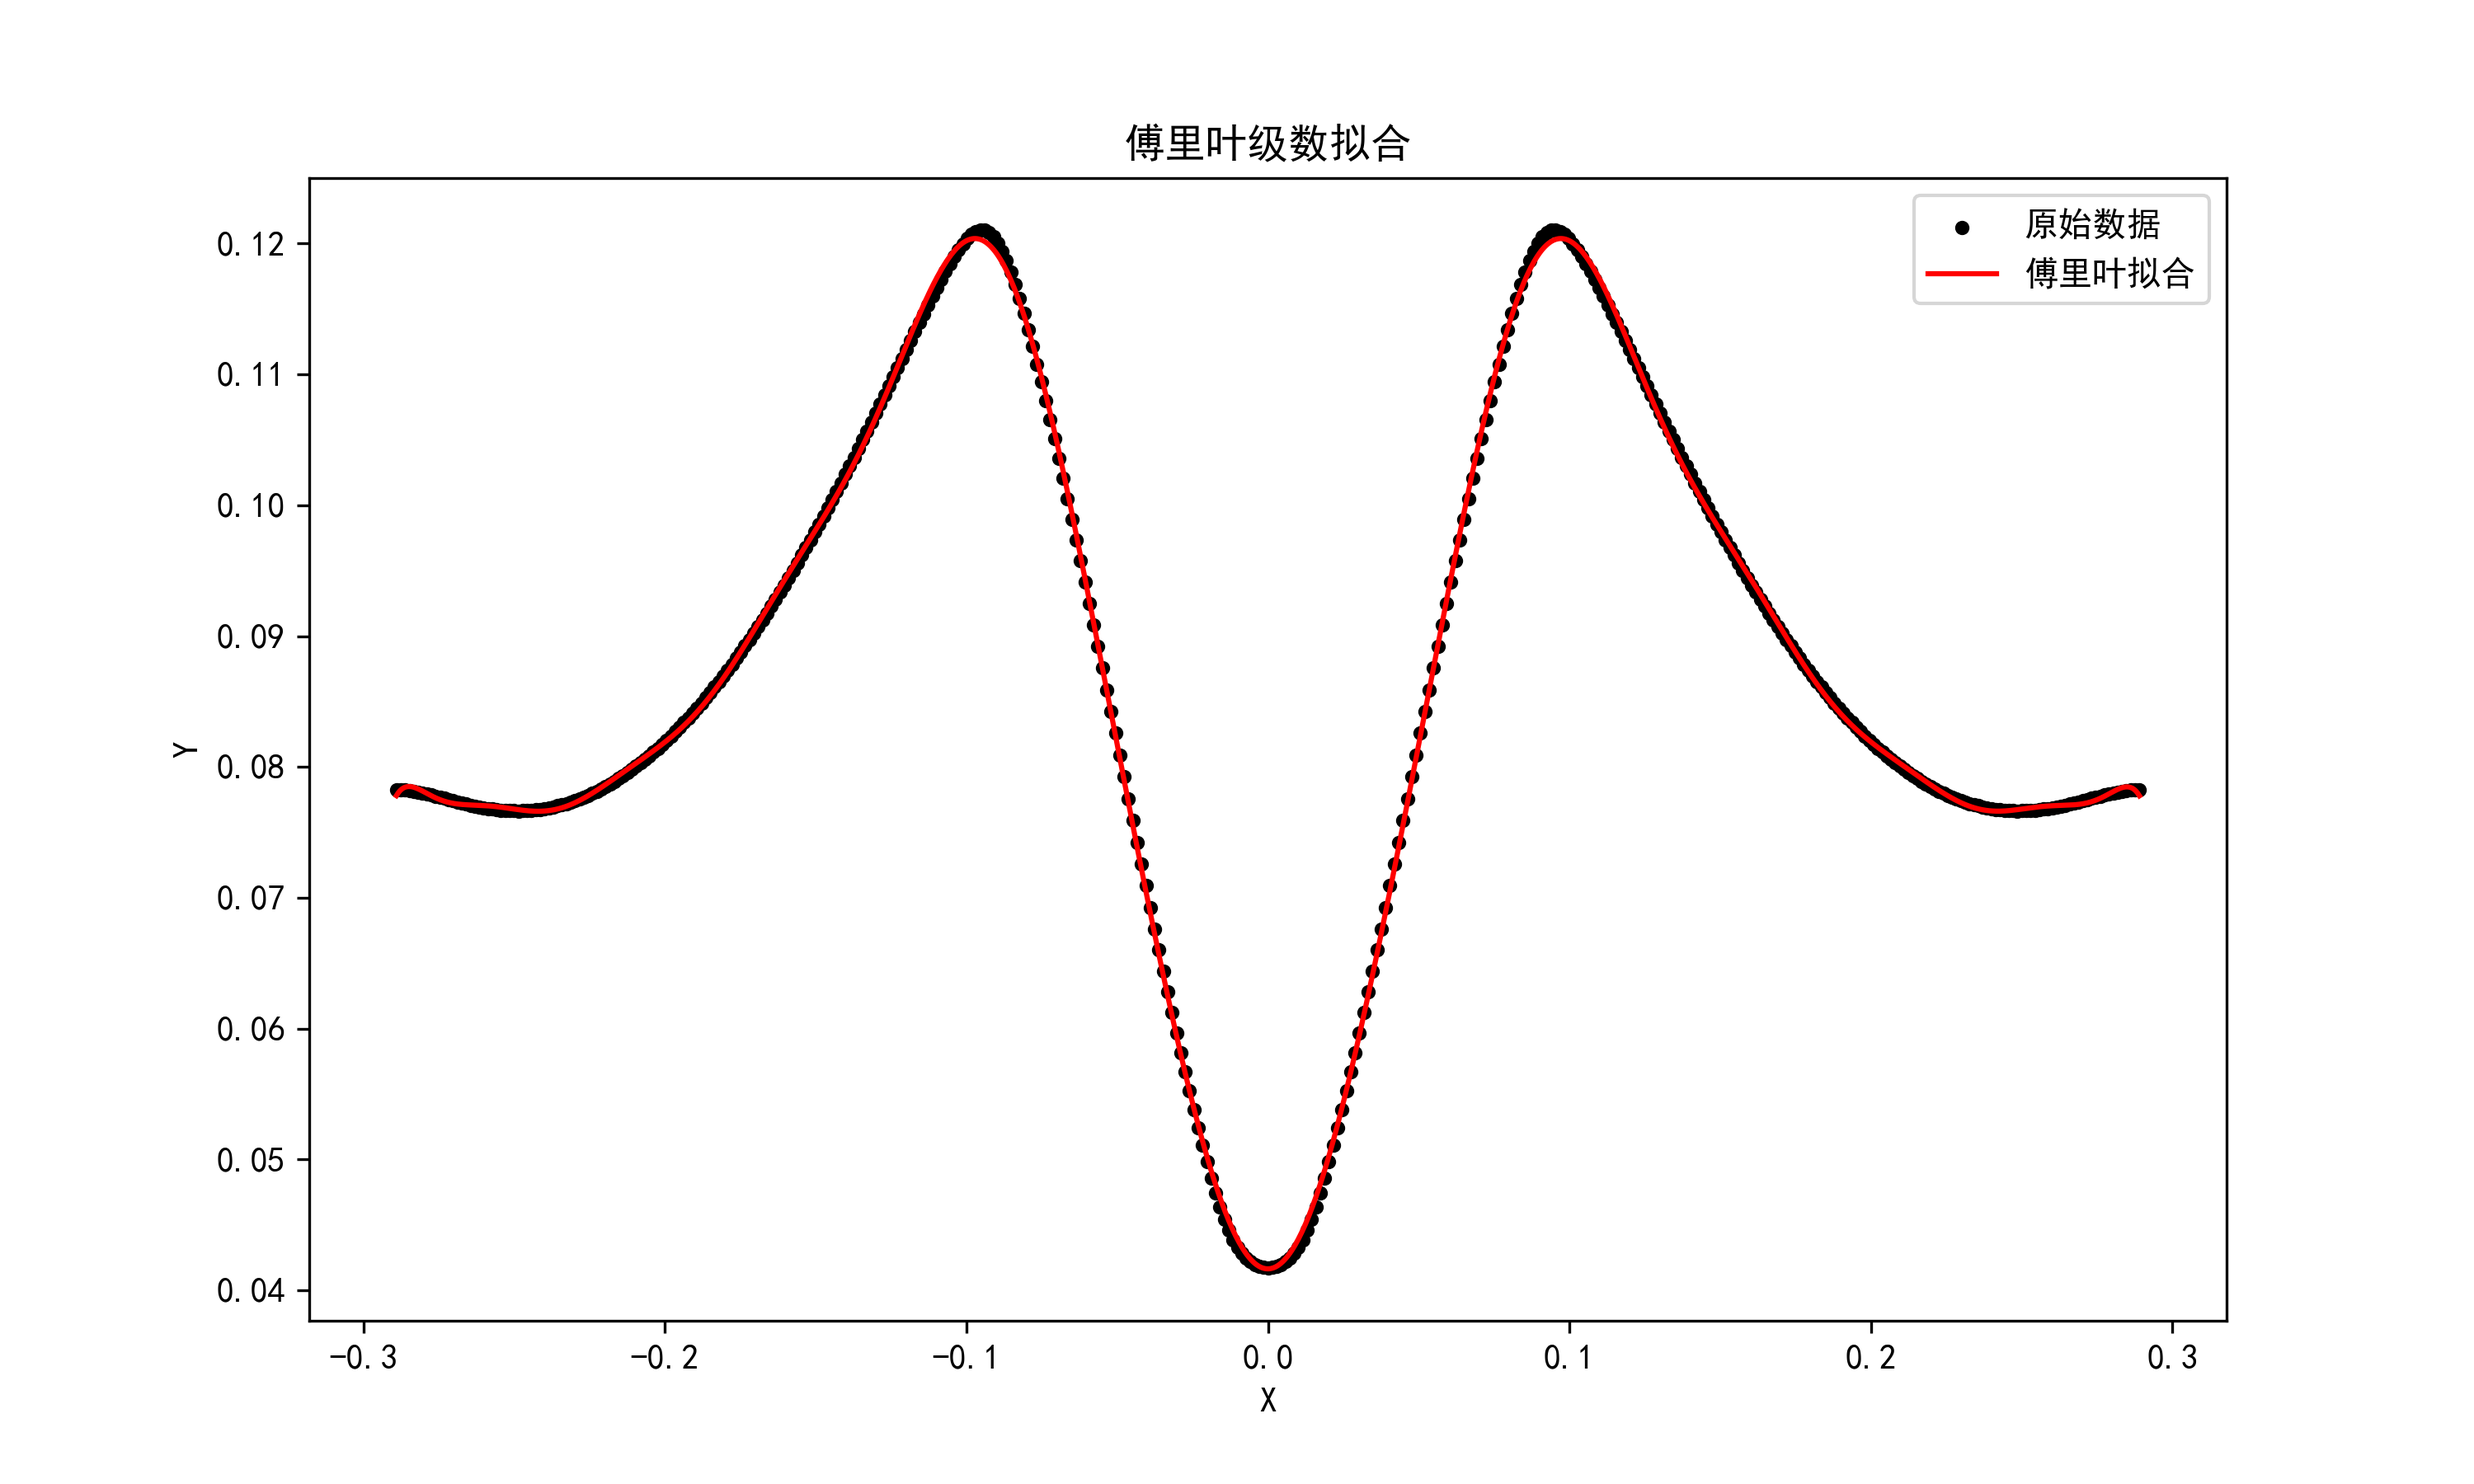
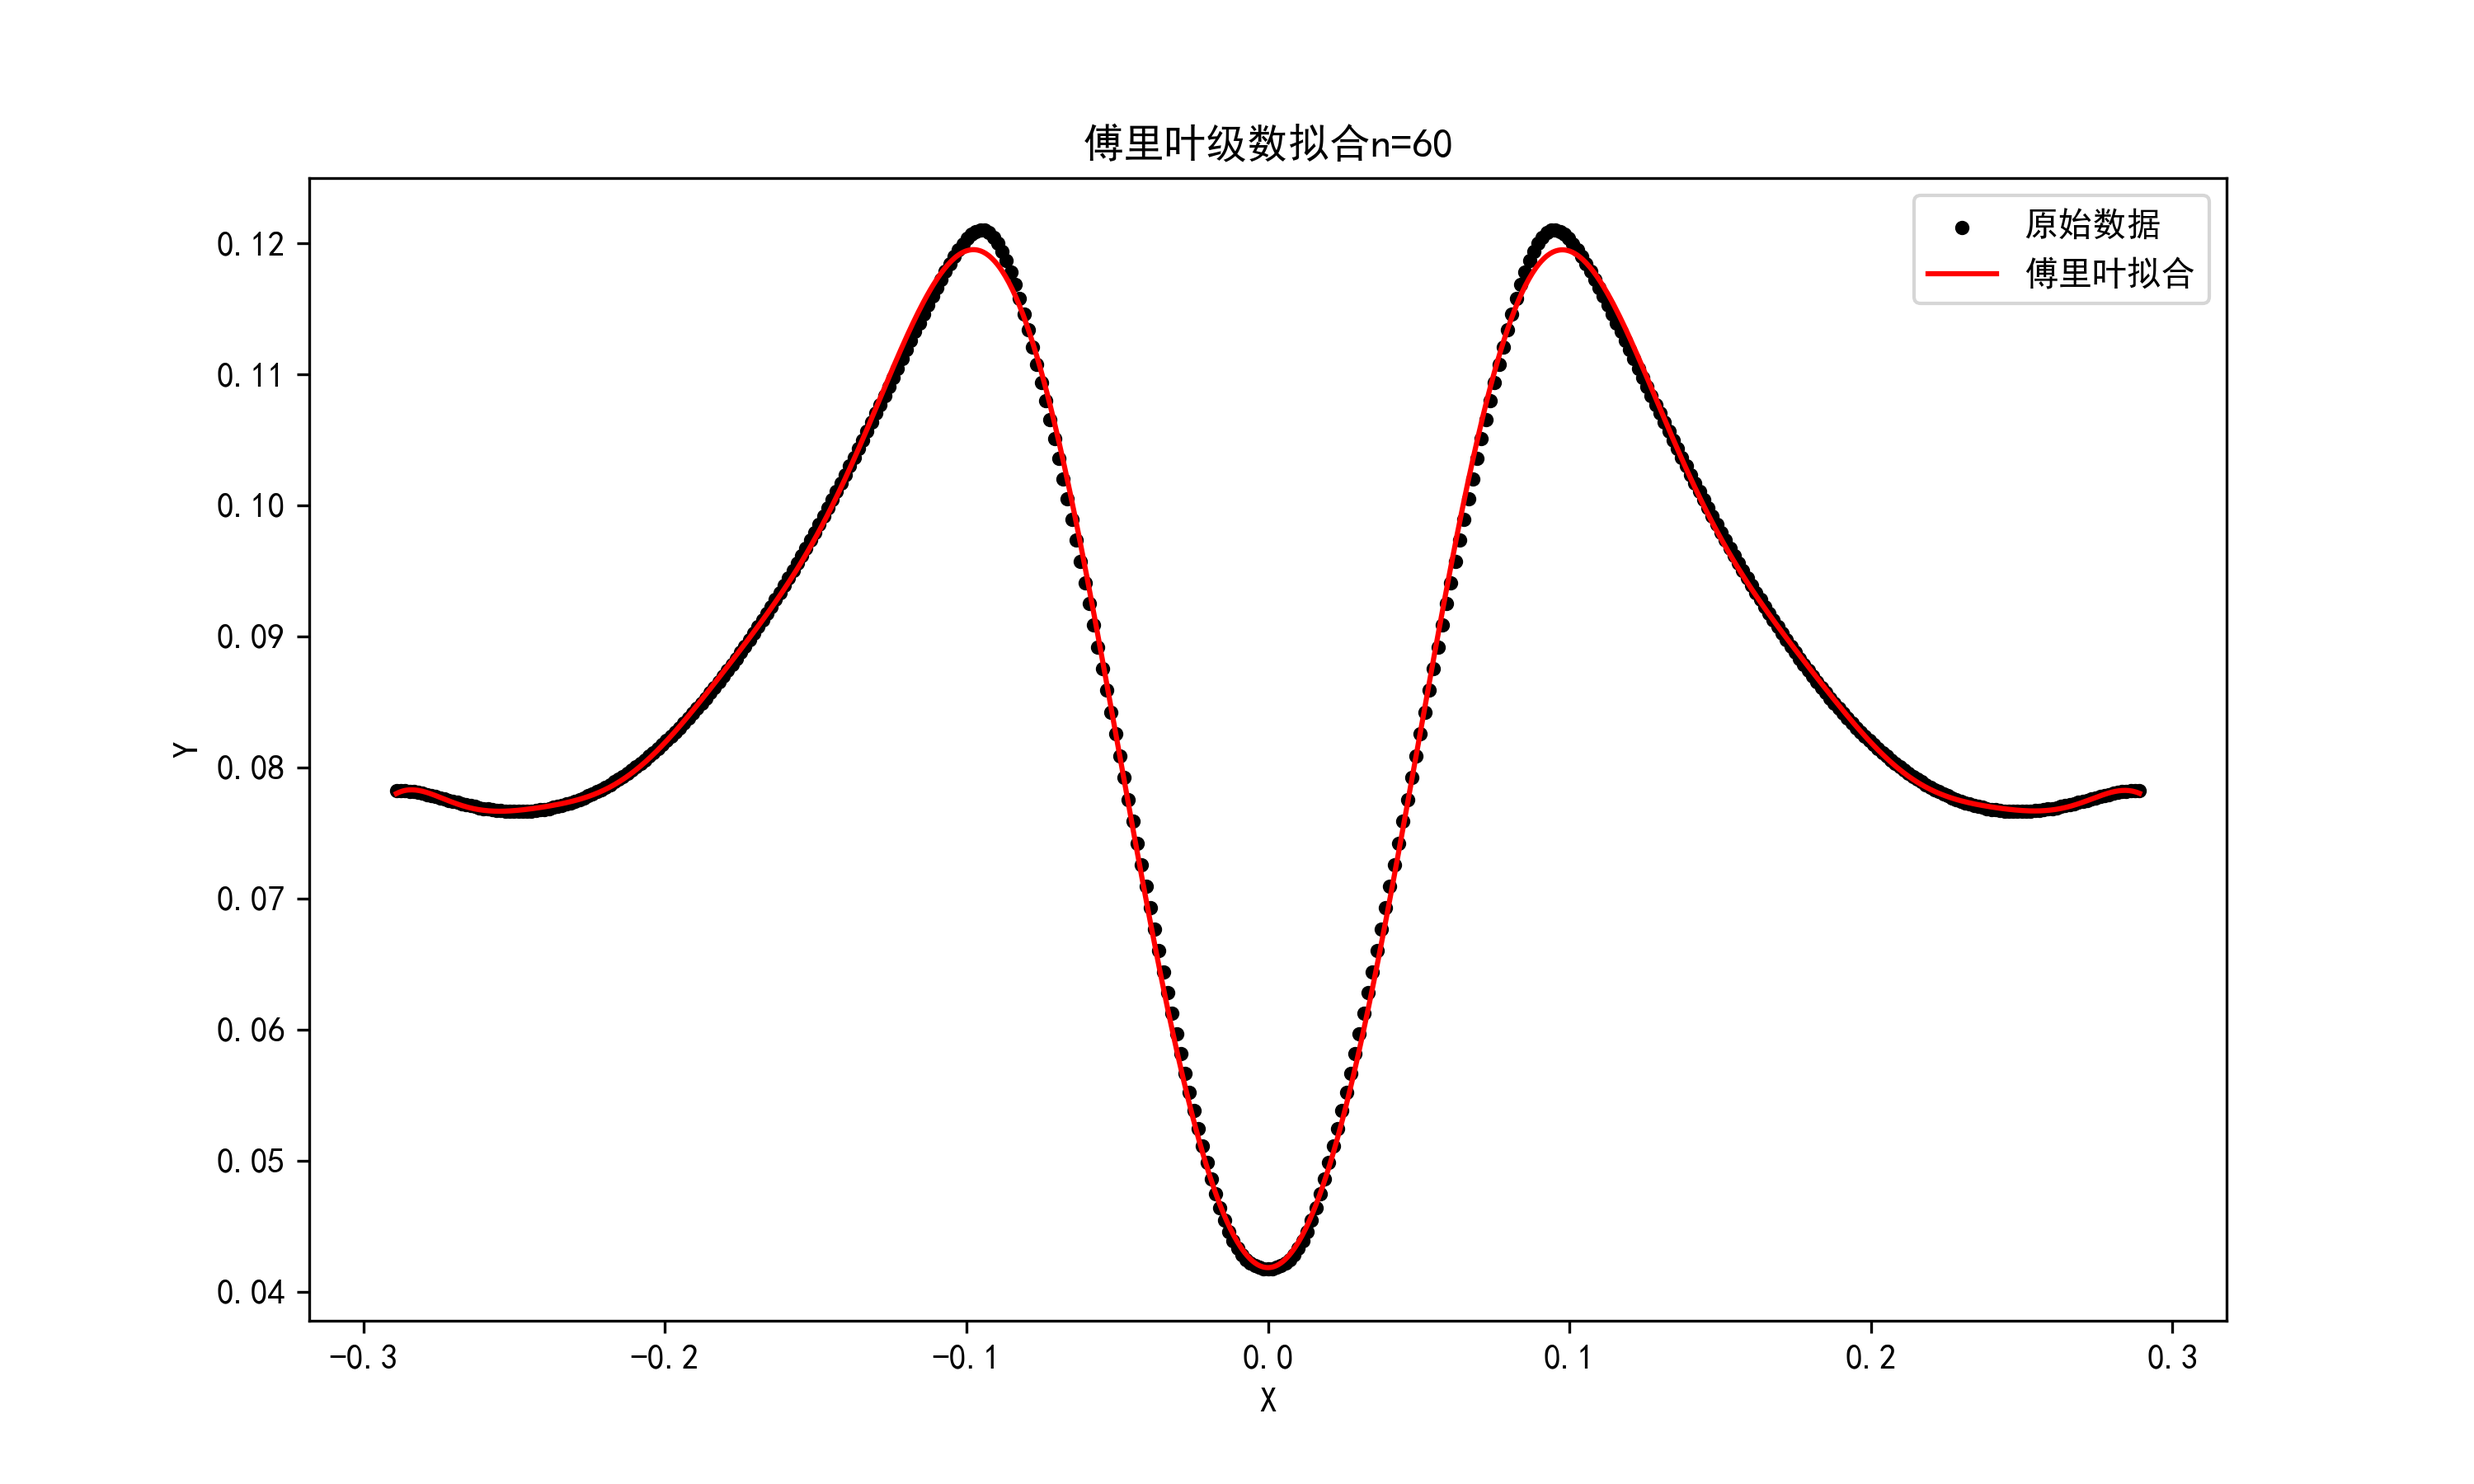
新增傅里叶绘图示例与 README 更新

diff --git a/傅里叶轮廓绘制_test2_动画.py b/傅里叶轮廓绘制_test2_动画.py
@@ -1,0 +1,159 @@
+import os
+
+import matplotlib as mpl
+import matplotlib.pyplot as plt
+import numpy as np
+from matplotlib.animation import FuncAnimation, PillowWriter
+
+
+def heart_contour(num_points=600):
+    t = np.linspace(0, 2 * np.pi, num_points, endpoint=False)
+    x = 16 * np.sin(t) ** 3
+    y = (
+        13 * np.cos(t)
+        - 5 * np.cos(2 * t)
+        - 2 * np.cos(3 * t)
+        - np.cos(4 * t)
+    )
+    return x, y
+
+
+def compute_epicycles(x, y, n_terms):
+    z = x + 1j * y
+    coeffs = np.fft.fft(z) / len(z)
+    n = len(z)
+
+    freqs = [0]
+    for k in range(1, n_terms + 1):
+        freqs.extend([k, -k])
+
+    components = []
+    for freq in freqs:
+        coeff = coeffs[freq % n]
+        components.append(
+            {
+                "freq": freq,
+                "coeff": coeff,
+                "amp": np.abs(coeff),
+                "phase": np.angle(coeff),
+            }
+        )
+
+    components.sort(key=lambda item: item["amp"], reverse=True)
+    return components
+
+
+def endpoint_at_time(components, t):
+    point = 0j
+    chain = [point]
+
+    for comp in components:
+        point += comp["coeff"] * np.exp(1j * comp["freq"] * t)
+        chain.append(point)
+
+    return chain
+
+
+def create_animation(x, y, components, output_gif, output_png):
+    fig, ax = plt.subplots(figsize=(8, 8))
+    max_radius = max(np.max(np.abs(x)), np.max(np.abs(y))) * 1.4
+    ax.set_xlim(-max_radius, max_radius)
+    ax.set_ylim(-max_radius, max_radius)
+    ax.set_aspect("equal")
+    ax.grid(True, alpha=0.2)
+    ax.set_title("傅里叶圆轮绘制爱心 (n=8)")
+
+    original_line, = ax.plot(x, y, color="lightgray", linewidth=1.5, label="目标轮廓")
+    draw_line, = ax.plot([], [], color="crimson", linewidth=2.5, label="已绘制轨迹")
+    chain_line, = ax.plot([], [], color="#1f77b4", linewidth=1.2, label="向量链")
+    tip_point, = ax.plot([], [], "o", color="black", markersize=4)
+    circle_lines = []
+
+    for _ in components:
+        circle_line, = ax.plot([], [], color="#4c78a8", alpha=0.35, linewidth=1)
+        circle_lines.append(circle_line)
+
+    ax.legend(loc="upper right")
+
+    drawn_points = []
+    frames = len(x)
+
+    def init():
+        draw_line.set_data([], [])
+        chain_line.set_data([], [])
+        tip_point.set_data([], [])
+        for circle_line in circle_lines:
+            circle_line.set_data([], [])
+        return [original_line, draw_line, chain_line, tip_point, *circle_lines]
+
+    def update(frame):
+        t = 2 * np.pi * frame / frames
+        chain = endpoint_at_time(components, t)
+
+        xs = [p.real for p in chain]
+        ys = [p.imag for p in chain]
+        chain_line.set_data(xs, ys)
+        tip_point.set_data([xs[-1]], [ys[-1]])
+
+        drawn_points.append(chain[-1])
+        draw_line.set_data(
+            [p.real for p in drawn_points],
+            [p.imag for p in drawn_points],
+        )
+
+        theta = np.linspace(0, 2 * np.pi, 120)
+        for i, comp in enumerate(components):
+            center = chain[i]
+            radius = comp["amp"]
+            circle_x = center.real + radius * np.cos(theta)
+            circle_y = center.imag + radius * np.sin(theta)
+            circle_lines[i].set_data(circle_x, circle_y)
+
+        return [original_line, draw_line, chain_line, tip_point, *circle_lines]
+
+    animation = FuncAnimation(
+        fig,
+        update,
+        frames=frames,
+        init_func=init,
+        interval=30,
+        blit=True,
+        repeat=True,
+    )
+
+    animation.save(output_gif, writer=PillowWriter(fps=30))
+    fig.savefig(output_png, dpi=300)
+    plt.close(fig)
+
+
+def export_notes(output_txt, n_terms):
+    with open(output_txt, "w", encoding="utf-8") as f:
+        f.write("傅里叶圆轮动画示例\n")
+        f.write("目标轮廓: 爱心\n")
+        f.write(f"保留频率项数: n = {n_terms}\n\n")
+        f.write("动画内容:\n")
+        f.write("1. 多个旋转向量首尾相接\n")
+        f.write("2. 每个向量对应一个频率分量\n")
+        f.write("3. 最末端轨迹逐步描出爱心轮廓\n\n")
+        f.write("输出文件:\n")
+        f.write("- heart_epicycles_n8.gif\n")
+        f.write("- heart_epicycles_n8_preview.png\n")
+
+
+if __name__ == "__main__":
+    mpl.rcParams["font.sans-serif"] = ["SimHei"]
+    mpl.rcParams["axes.unicode_minus"] = False
+
+    output_dir = "./output/傅里叶轮廓绘制_test2"
+    os.makedirs(output_dir, exist_ok=True)
+
+    x, y = heart_contour()
+    n_terms = 8
+    components = compute_epicycles(x, y, n_terms)
+
+    output_gif = os.path.join(output_dir, "heart_epicycles_n8.gif")
+    output_png = os.path.join(output_dir, "heart_epicycles_n8_preview.png")
+    output_txt = os.path.join(output_dir, "heart_epicycles_n8.txt")
+
+    create_animation(x, y, components, output_gif, output_png)
+    export_notes(output_txt, n_terms)

diff --git a/傅里叶轮廓绘制_test1.py b/傅里叶轮廓绘制_test1.py
@@ -1,0 +1,85 @@
+import os
+
+import matplotlib as mpl
+import matplotlib.pyplot as plt
+import numpy as np
+
+
+def heart_contour(num_points=800):
+    t = np.linspace(0, 2 * np.pi, num_points, endpoint=False)
+    x = 16 * np.sin(t) ** 3
+    y = (
+        13 * np.cos(t)
+        - 5 * np.cos(2 * t)
+        - 2 * np.cos(3 * t)
+        - np.cos(4 * t)
+    )
+    return x, y
+
+
+def fourier_descriptors(x, y):
+    z = x + 1j * y
+    return np.fft.fft(z) / len(z)
+
+
+def reconstruct_contour(coeffs, n_terms):
+    n = len(coeffs)
+    t = np.arange(n)
+    reconstructed = np.zeros(n, dtype=complex)
+    reconstructed += coeffs[0]
+
+    for k in range(1, n_terms + 1):
+        reconstructed += coeffs[k] * np.exp(2j * np.pi * k * t / n)
+        reconstructed += coeffs[-k] * np.exp(-2j * np.pi * k * t / n)
+
+    return reconstructed.real, reconstructed.imag
+
+
+def plot_reconstruction(x, y, coeffs, terms_list, output_path):
+    fig, axes = plt.subplots(2, 2, figsize=(12, 10))
+    axes = axes.ravel()
+
+    for ax, n_terms in zip(axes, terms_list):
+        x_rec, y_rec = reconstruct_contour(coeffs, n_terms)
+        ax.plot(x, y, color="lightgray", linewidth=2, label="原始轮廓")
+        ax.plot(x_rec, y_rec, color="crimson", linewidth=2, label=f"重建轮廓 ({n_terms} 项)")
+        ax.set_title(f"傅里叶轮廓重建: {n_terms} 项")
+        ax.set_aspect("equal")
+        ax.grid(True, alpha=0.2)
+        ax.legend()
+
+    plt.suptitle("用傅里叶级数画任意轮廓: 心形示例", fontsize=14)
+    plt.tight_layout()
+    plt.savefig(output_path, dpi=300)
+    plt.close(fig)
+
+
+def export_notes(output_txt, terms_list):
+    with open(output_txt, "w", encoding="utf-8") as f:
+        f.write("傅里叶轮廓绘制示例\n")
+        f.write("示例轮廓: 心形闭合曲线\n\n")
+        f.write("核心思路:\n")
+        f.write("1. 将二维轮廓写成复数序列 z = x + iy\n")
+        f.write("2. 对 z 做离散傅里叶变换，得到傅里叶描述子\n")
+        f.write("3. 保留有限项频率分量后反变换，就能逐步重建轮廓\n\n")
+        f.write("本图展示的重建项数:\n")
+        for n_terms in terms_list:
+            f.write(f"- {n_terms} 项\n")
+
+
+if __name__ == "__main__":
+    mpl.rcParams["font.sans-serif"] = ["SimHei"]
+    mpl.rcParams["axes.unicode_minus"] = False
+
+    output_dir = "./output/傅里叶轮廓绘制_test1"
+    os.makedirs(output_dir, exist_ok=True)
+
+    x, y = heart_contour()
+    coeffs = fourier_descriptors(x, y)
+    terms_list = [3, 8, 20, 80]
+
+    output_png = os.path.join(output_dir, "heart_fourier_contour.png")
+    output_txt = os.path.join(output_dir, "heart_fourier_contour.txt")
+
+    plot_reconstruction(x, y, coeffs, terms_list, output_png)
+    export_notes(output_txt, terms_list)

diff --git a/傅里叶.py b/傅里叶.py
@@ -106,7 +106,7 @@ def plot_fit(x, y, coeffs, output_filename, output_dir):
     y_fit = fourier_series(x_fit, *coeffs)
     plt.plot(x_fit, y_fit, color="red", label="傅里叶拟合")
 
-    plt.title("傅里叶级数拟合")
+    plt.title(f"傅里叶级数拟合n={n_terms}")
     plt.xlabel("X")
     plt.ylabel("Y")
     plt.legend()
@@ -126,7 +126,7 @@ if __name__ == "__main__":
     data_y = "./data/2_CB1_interp_a.txt"
     x, y = load_and_sort_data_split(data_x, data_y)
     output_filename = "fourier_series"
-    n_terms = 80
+    n_terms = 60
 
     coeffs = fit_fourier_weighted(x, y, n_terms, target_x=0)
     y_fit = fourier_series(x, *coeffs)

diff --git a/readme.md b/readme.md
@@ -1,9 +1,39 @@
-### 将点数据拟合成单个或分段曲线
-TDM.txt是数据文件1，第一列是自变量（x），第二列是因变量（y）  
-x.txt是数据文件2的x坐标，CB1_interp_a.txt是数据文件2的y坐标  
+# Data Point Fitting Curve
 
+将离散数据点拟合成连续曲线，并对不同方法的效果做直观比较。
 
-#### 原始数据点分布图：
-![alt text](raw-data.png)
-![alt text](raw-data2.png)
-### 如果是你，你会怎么拟合这两条曲线？
+本仓库目前围绕两组实验数据，分别尝试了多项式、分段函数、傅里叶级数和高斯组合等方式进行拟合。每种方法都会输出拟合图和 `txt` 结果，便于观察曲线形状、函数表达式和拟合误差。
+
+## 数据说明
+
+- `data/1_TDM.txt`
+  第一列为 `x`，第二列为 `y`
+- `data/2_x.txt` 与 `data/2_CB1_interp_a.txt`
+  分别对应第二组数据的横纵坐标
+
+## 原始数据
+
+![raw-data](raw-data.png)
+
+![raw-data2](raw-data2.png)
+
+## 当前拟合方法
+
+- 多项式拟合
+- 分段函数拟合
+- 傅里叶级数拟合
+- 三高斯组合拟合
+- 五高斯组合拟合
+
+对应结果输出在 `output/` 目录下，包含：
+
+- 拟合结果图片 `png`
+- 公式或表达式说明 `txt`
+- 拟合精度指标：`MSE`、`RMSE`、`MAE`、`R^2`
+
+## 关于傅里叶级数画图的额外尝试
+
+除了用于数据曲线拟合，本仓库也开始尝试把傅里叶级数用于简单轮廓的重建与绘制。
+思路是先将轮廓表示为一组离散点，再分解成不同频率的正弦/余弦分量，用动画方式逐步把图形“画出来”。
+
+这部分目前仍是实验性质，但它说明了一件很有意思的事：傅里叶级数不仅能拟合曲线，也能表达和重建图形。
